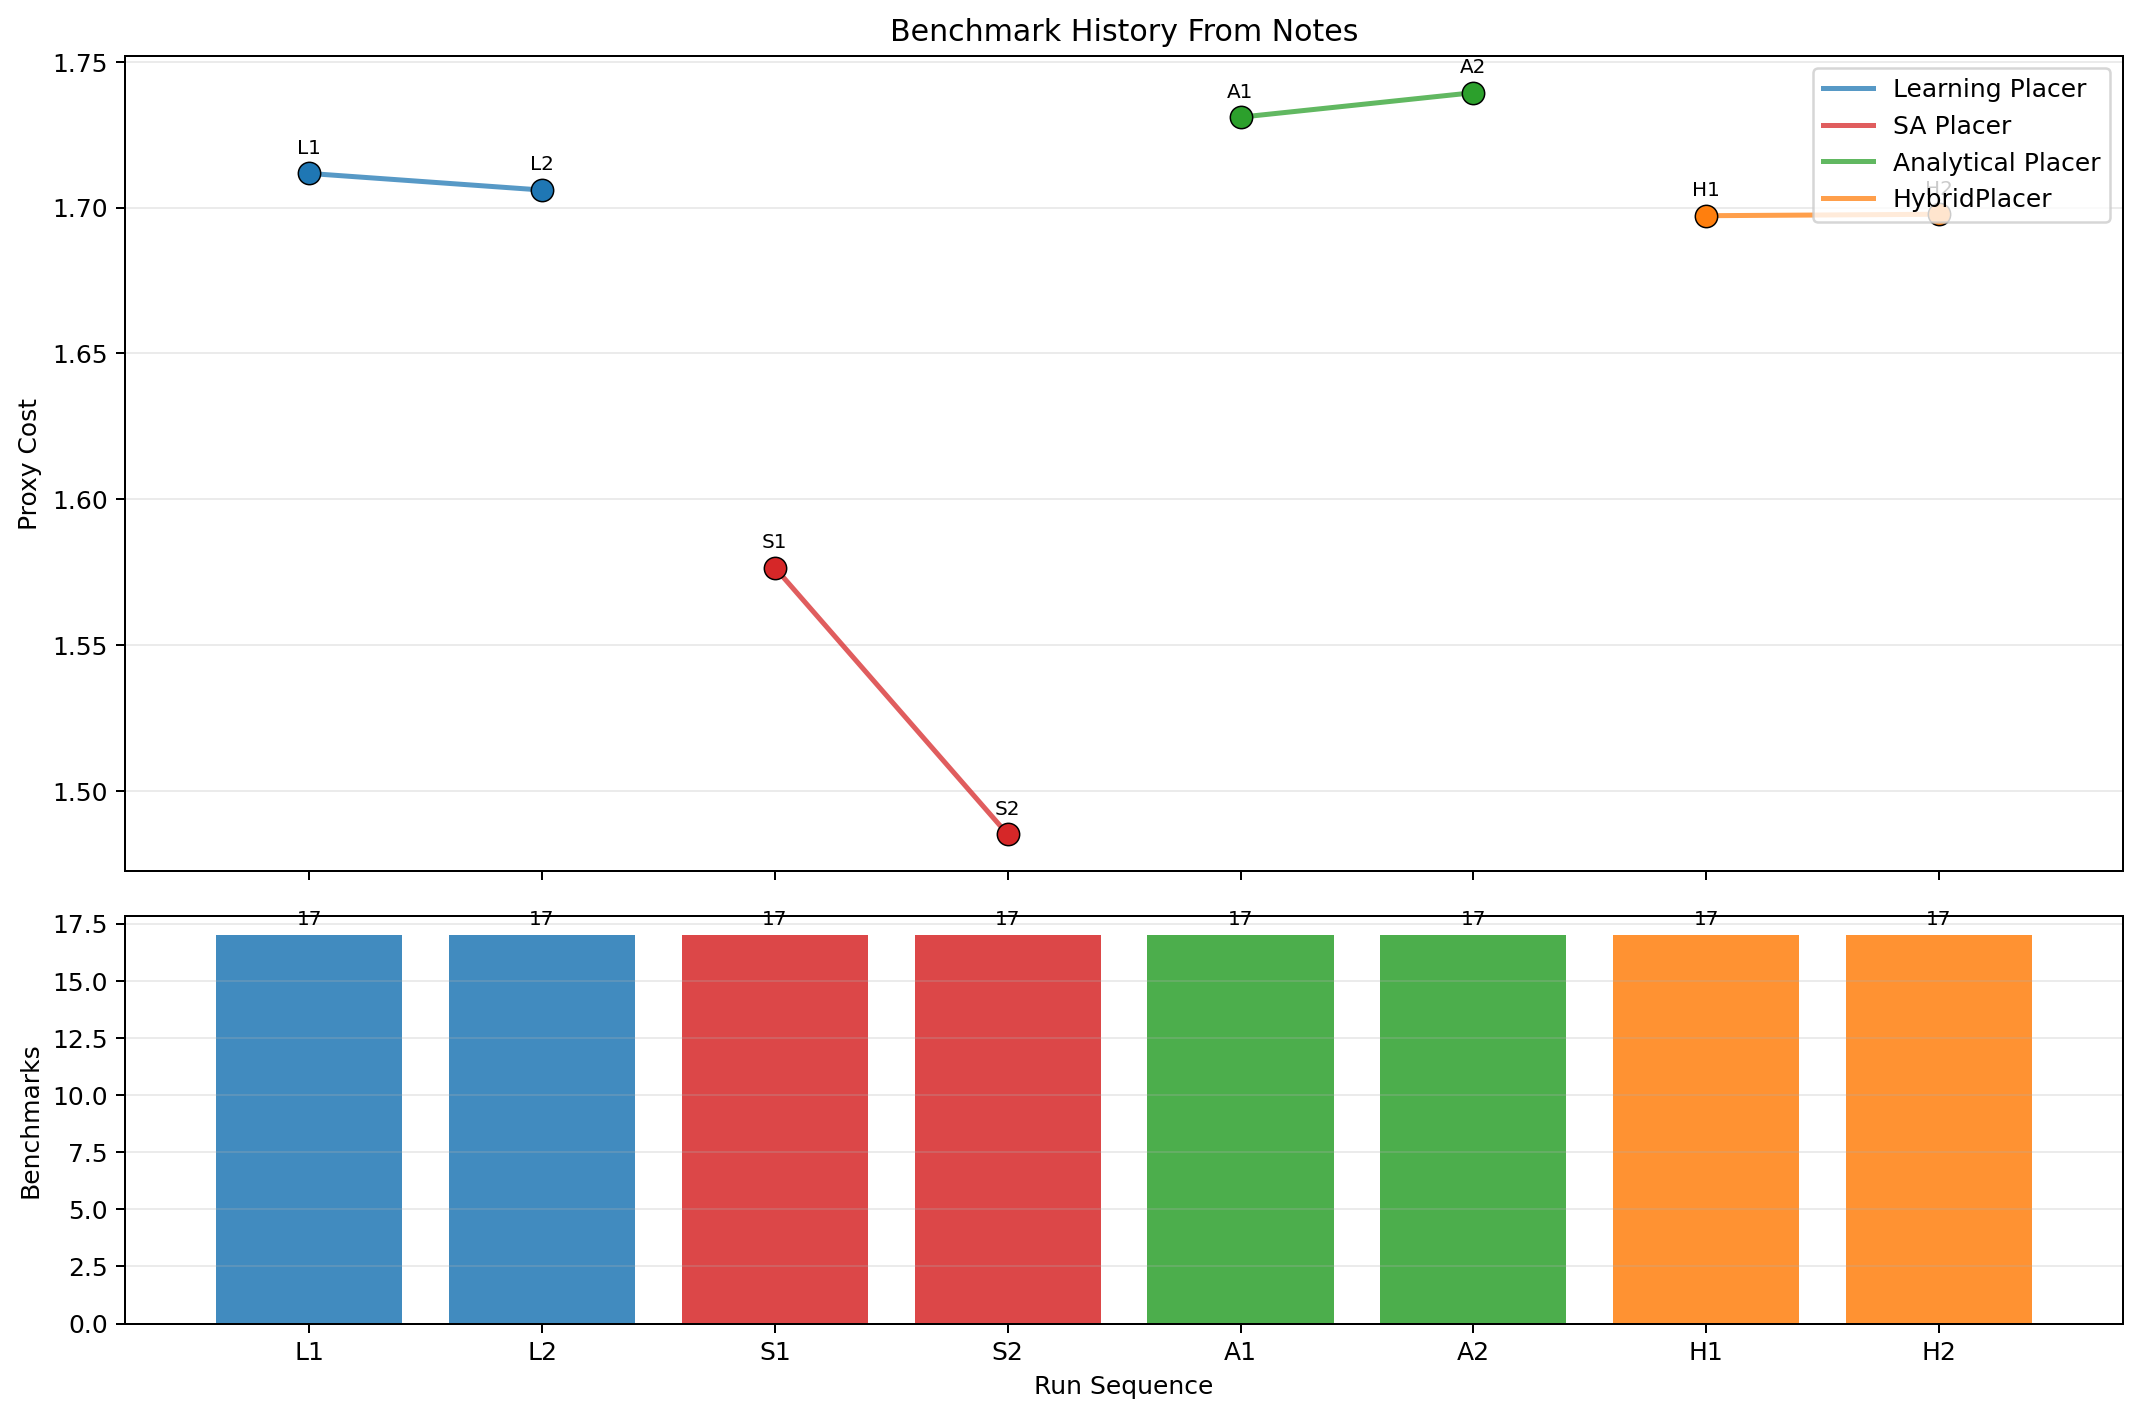
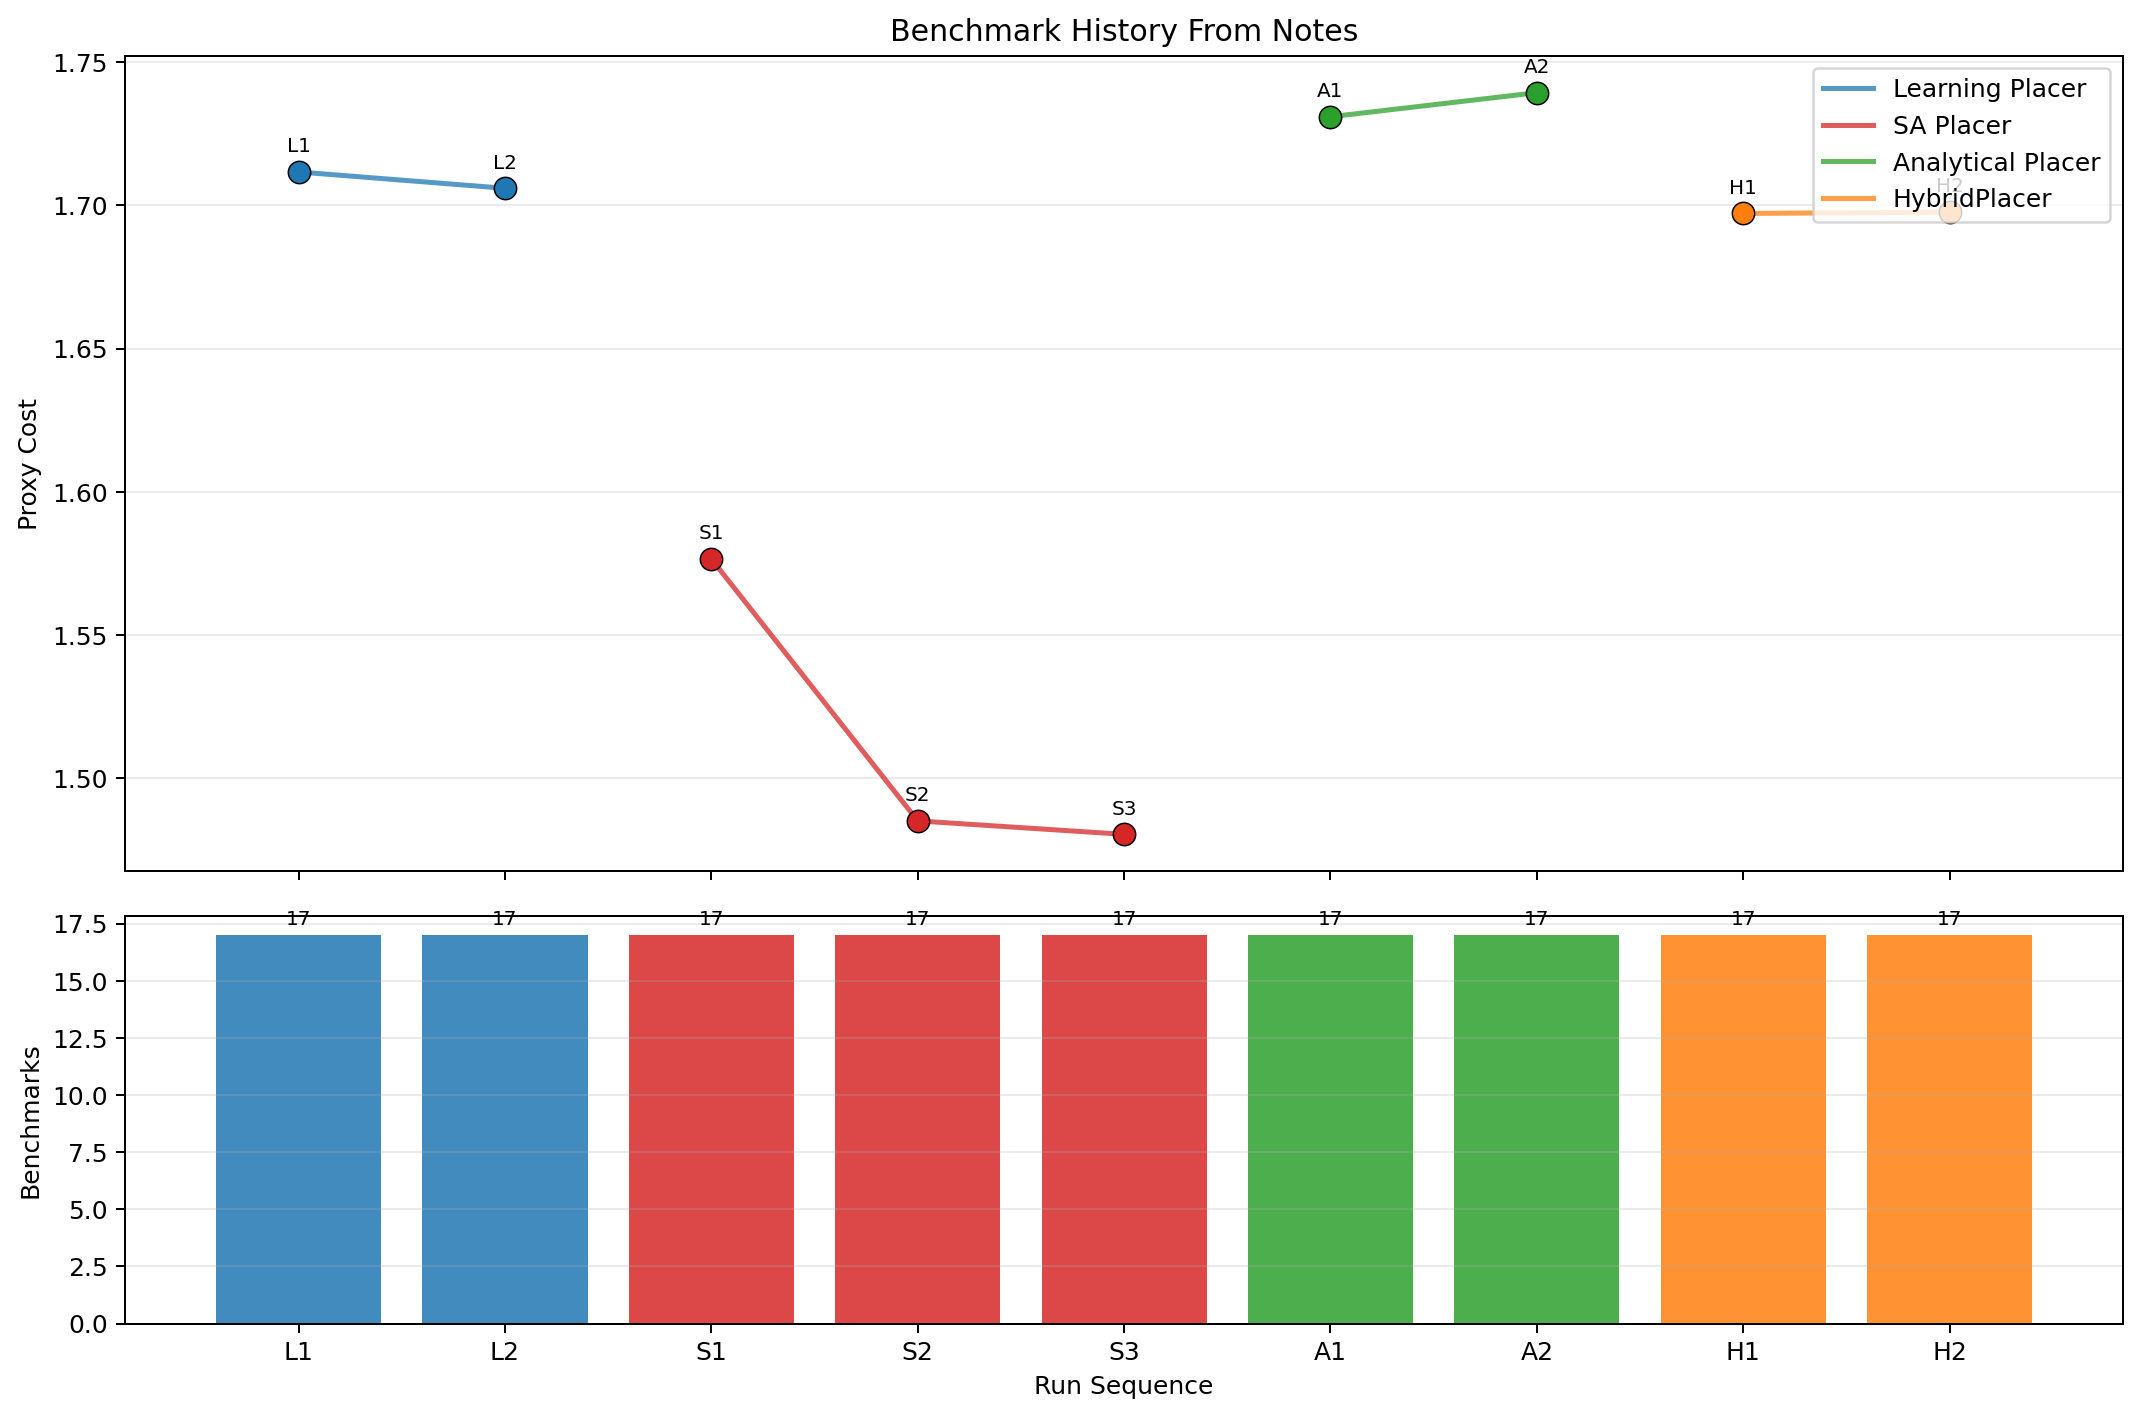
Update benchmark results and summary with v2 SA Placer performance and greedy macro flipping improvements

diff --git a/notes/benchmark history/benchmark_history_raw.md b/notes/benchmark history/benchmark_history_raw.md
@@ -10,10 +10,11 @@ Generated from the note files in this directory.
 | L2 | Learning Placer | 2026-04-04 | Full suite rerun (`--no-media`) | full_suite | 17 | 1.7060 | 1.7060 | 457.74 | (RL method)eklundnotes.md |
 | S1 | SA Placer | 2026-04-03 | SA Placer (PLACER_METHOD=sa) | full_suite | 17 | 1.5765 | 1.5765 | 215.00 | (SA + Analytical method) Omnellnotes.md |
 | S2 | SA Placer | 2026-04-04 | SA Placer (PLACER_METHOD=sa) | full_suite | 17 | 1.4850 | 1.4850 | 999.38 | (SA + Analytical method) Omnellnotes.md |
+| S3 | SA Placer | 2026-04-04, v2 | SA Placer (PLACER_METHOD=sa) | full_suite | 17 | 1.4803 | 1.4803 | 676.83 | (SA + Analytical method) Omnellnotes.md |
 | A1 | Analytical Placer | 2026-04-03 | Analytical Placer (PLACER_METHOD=analytical) | full_suite | 17 | 1.7310 | 1.7310 | 406.00 | (SA + Analytical method) Omnellnotes.md |
 | A2 | Analytical Placer | 2026-04-04 | Analytical Placer (PLACER_METHOD=analytical) | full_suite | 17 | 1.7394 | 1.7394 | 598.68 | (SA + Analytical method) Omnellnotes.md |
 | H1 | HybridPlacer | 2026-04-03 | Analytical -> SA pipeline benchmark run | full_suite | 17 | 1.6972 | 1.6972 | 1492.67 | (Hybrid method)novaknotes.md |
-| H2 | HybridPlacer | 2026-04-04 | Analytical -> SA pipeline benchmark run | full_suite | 17 | 1.6977 | 1.6977 | 324.72 | (Hybrid method)novaknotes.md |
+| H2 | HybridPlacer | 2026-04-04, --no-media | Analytical -> SA pipeline benchmark run | full_suite | 17 | 1.6977 | 1.6977 | 324.72 | (Hybrid method)novaknotes.md |
 
 ## Benchmark-Level Records
 
@@ -87,6 +88,23 @@ Generated from the note files in this directory.
 | S2 | SA Placer | ibm16 | 1.5308 | 0.048 | 0.848 | 2.116 | 70.92 | (SA + Analytical method) Omnellnotes.md |
 | S2 | SA Placer | ibm17 | 1.7504 | 0.053 | 0.941 | 2.454 | 84.36 | (SA + Analytical method) Omnellnotes.md |
 | S2 | SA Placer | ibm18 | 1.7875 | 0.053 | 1.034 | 2.435 | 39.19 | (SA + Analytical method) Omnellnotes.md |
+| S3 | SA Placer | ibm01 | 1.1281 | 0.069 | 0.822 | 1.296 | 22.34 | (SA + Analytical method) Omnellnotes.md |
+| S3 | SA Placer | ibm02 | 1.6074 | 0.076 | 0.727 | 2.335 | 14.76 | (SA + Analytical method) Omnellnotes.md |
+| S3 | SA Placer | ibm03 | 1.3752 | 0.079 | 0.771 | 1.865 | 35.23 | (SA + Analytical method) Omnellnotes.md |
+| S3 | SA Placer | ibm04 | 1.3680 | 0.072 | 0.779 | 1.814 | 132.07 | (SA + Analytical method) Omnellnotes.md |
+| S3 | SA Placer | ibm06 | 1.6848 | 0.063 | 0.764 | 2.576 | 35.86 | (SA + Analytical method) Omnellnotes.md |
+| S3 | SA Placer | ibm07 | 1.4792 | 0.065 | 0.808 | 2.022 | 49.05 | (SA + Analytical method) Omnellnotes.md |
+| S3 | SA Placer | ibm08 | 1.5132 | 0.070 | 0.840 | 2.066 | 45.89 | (SA + Analytical method) Omnellnotes.md |
+| S3 | SA Placer | ibm09 | 1.1103 | 0.058 | 0.819 | 1.286 | 21.16 | (SA + Analytical method) Omnellnotes.md |
+| S3 | SA Placer | ibm10 | 1.3703 | 0.065 | 0.707 | 1.889 | 81.26 | (SA + Analytical method) Omnellnotes.md |
+| S3 | SA Placer | ibm11 | 1.2305 | 0.055 | 0.847 | 1.521 | 45.97 | (SA + Analytical method) Omnellnotes.md |
+| S3 | SA Placer | ibm12 | 1.6458 | 0.061 | 0.750 | 2.412 | 77.21 | (SA + Analytical method) Omnellnotes.md |
+| S3 | SA Placer | ibm13 | 1.3953 | 0.054 | 0.875 | 1.799 | 37.38 | (SA + Analytical method) Omnellnotes.md |
+| S3 | SA Placer | ibm14 | 1.6007 | 0.051 | 0.948 | 2.146 | 91.98 | (SA + Analytical method) Omnellnotes.md |
+| S3 | SA Placer | ibm15 | 1.5964 | 0.058 | 0.917 | 2.165 | 64.54 | (SA + Analytical method) Omnellnotes.md |
+| S3 | SA Placer | ibm16 | 1.5238 | 0.048 | 0.848 | 2.116 | 70.92 | (SA + Analytical method) Omnellnotes.md |
+| S3 | SA Placer | ibm17 | 1.7495 | 0.053 | 0.941 | 2.452 | 97.50 | (SA + Analytical method) Omnellnotes.md |
+| S3 | SA Placer | ibm18 | 1.7872 | 0.053 | 1.034 | 2.434 | 49.45 | (SA + Analytical method) Omnellnotes.md |
 | A1 | Analytical Placer | ibm01 | 1.3845 | 0.103 | 1.017 | 1.546 | 10.07 | (SA + Analytical method) Omnellnotes.md |
 | A1 | Analytical Placer | ibm02 | 1.7839 | 0.089 | 0.920 | 2.470 | 7.40 | (SA + Analytical method) Omnellnotes.md |
 | A1 | Analytical Placer | ibm03 | 1.6980 | 0.095 | 1.054 | 2.152 | 7.75 | (SA + Analytical method) Omnellnotes.md |

diff --git a/notes/(SA + Analytical method) Omnellnotes.md b/notes/(SA + Analytical method) Omnellnotes.md
@@ -162,3 +162,37 @@ Samla research papers till claude
 - SA is now clearly our strongest current method and is within 1.9% of RePlAce on proxy cost
 - Analytical remains competitive but is still congestion-limited and now sits well behind the new SA run
 - The current SA run also beats Will Seed on average proxy (1.4850 vs 1.5338)
+
+## Benchmark Results (2026-04-04, v2) — Greedy Macro Flipping
+
+Changes from previous SA run:
+- Added greedy macro flipping post-processing (try FN/FS/S orientations per macro, keep if HPWL improves)
+- Density-aware SA unchanged from previous run
+
+### SA Placer (PLACER_METHOD=sa)
+
+| Benchmark | proxy  | wl    | den   | cong  | Time    |
+|-----------|--------|-------|-------|-------|---------|
+| ibm01     | 1.1281 | 0.069 | 0.822 | 1.296 |  22.34s |
+| ibm02     | 1.6074 | 0.076 | 0.727 | 2.335 |  14.76s |
+| ibm03     | 1.3752 | 0.079 | 0.771 | 1.865 |  35.23s |
+| ibm04     | 1.3680 | 0.072 | 0.779 | 1.814 | 132.07s |
+| ibm06     | 1.6848 | 0.063 | 0.764 | 2.576 |  35.86s |
+| ibm07     | 1.4792 | 0.065 | 0.808 | 2.022 |  49.05s |
+| ibm08     | 1.5132 | 0.070 | 0.840 | 2.066 |  45.89s |
+| ibm09     | 1.1103 | 0.058 | 0.819 | 1.286 |  21.16s |
+| ibm10     | 1.3703 | 0.065 | 0.707 | 1.889 |  81.26s |
+| ibm11     | 1.2305 | 0.055 | 0.847 | 1.521 |  45.97s |
+| ibm12     | 1.6458 | 0.061 | 0.750 | 2.412 |  77.21s |
+| ibm13     | 1.3953 | 0.054 | 0.875 | 1.799 |  37.38s |
+| ibm14     | 1.6007 | 0.051 | 0.948 | 2.146 |  91.98s |
+| ibm15     | 1.5964 | 0.058 | 0.917 | 2.165 |  64.54s |
+| ibm16     | 1.5238 | 0.048 | 0.848 | 2.116 |  70.92s |
+| ibm17     | 1.7495 | 0.053 | 0.941 | 2.452 |  97.50s |
+| ibm18     | 1.7872 | 0.053 | 1.034 | 2.434 |  49.45s |
+| **AVG**   |**1.4803**|     |       |       | 676.83s |
+
+- Improved from 1.4850 → 1.4803 (+0.3%)
+- Now only 1.5% behind RePlAce (was 1.9%)
+- Beats RePlAce on 4/17 benchmarks (ibm02, ibm09, ibm10, ibm12)
+- Beats SA baseline on all 17/17 benchmarks

diff --git a/notes/benchmark history/benchmark_history_summary.md b/notes/benchmark history/benchmark_history_summary.md
@@ -15,9 +15,10 @@ This graph summarizes the full-suite benchmark sections logged in the notes.
 | L2 | Learning Placer | 2026-04-04 | full_suite | 1.7060 | 17 |
 | S1 | SA Placer | 2026-04-03 | full_suite | 1.5765 | 17 |
 | S2 | SA Placer | 2026-04-04 | full_suite | 1.4850 | 17 |
+| S3 | SA Placer | 2026-04-04, v2 | full_suite | 1.4803 | 17 |
 | A1 | Analytical Placer | 2026-04-03 | full_suite | 1.7310 | 17 |
 | A2 | Analytical Placer | 2026-04-04 | full_suite | 1.7394 | 17 |
 | H1 | HybridPlacer | 2026-04-03 | full_suite | 1.6972 | 17 |
-| H2 | HybridPlacer | 2026-04-04 | full_suite | 1.6977 | 17 |
+| H2 | HybridPlacer | 2026-04-04, --no-media | full_suite | 1.6977 | 17 |
 
 Raw parsed data: [benchmark_history_raw.md](benchmark_history_raw.md)

diff --git a/README.md b/README.md
@@ -16,7 +16,7 @@ Submissions are ranked by **average proxy cost** across all 18 IBM benchmarks (l
 | 2 | "BakaBobo" (Spread+Refine) | 1.4403 | — | — | 0 | 212s/bench |  |
 | 3 | "Convex Optimization" (UWaterloo Student) | 1.4556 | — | — | 0 | 16s total |  |
 | — | RePlAce (baseline) | **1.4578** | 0.9976 | 1.8370 | 0 | — | ✅ |
-| 4 | SA Placer (ours) | 1.4850 | 1.1079 | 1.7875 | 0 | 999.38s total |  |
+| 4 | SA Placer (ours) | 1.4803 | 1.1103 | 1.7872 | 0 | 676.83s total |  |
 | 5 | Will Seed (Partcl) | 1.5338 | 1.1625 | 1.7965 | 0 | 35s total | ✅ |
 | 6 | HybridPlacer (ours) | 1.6977 | 1.2477 | 2.0305 | 0 | 324.72s total |  |
 | 7 | Learning Placer (ours) | 1.7060 | 1.2707 | 2.0338 | 0 | 457.74s total |  |
